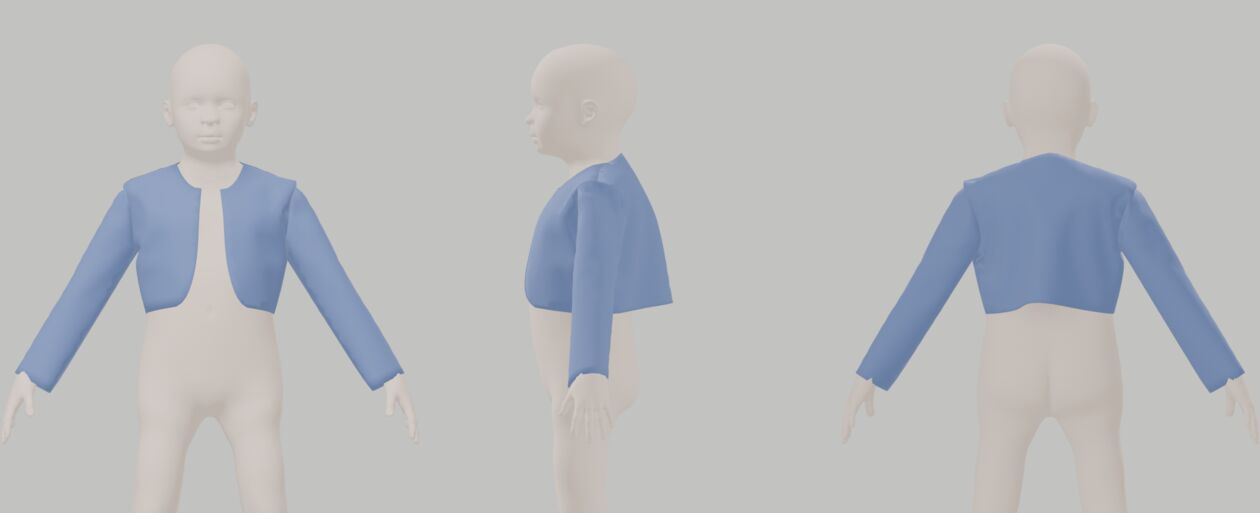
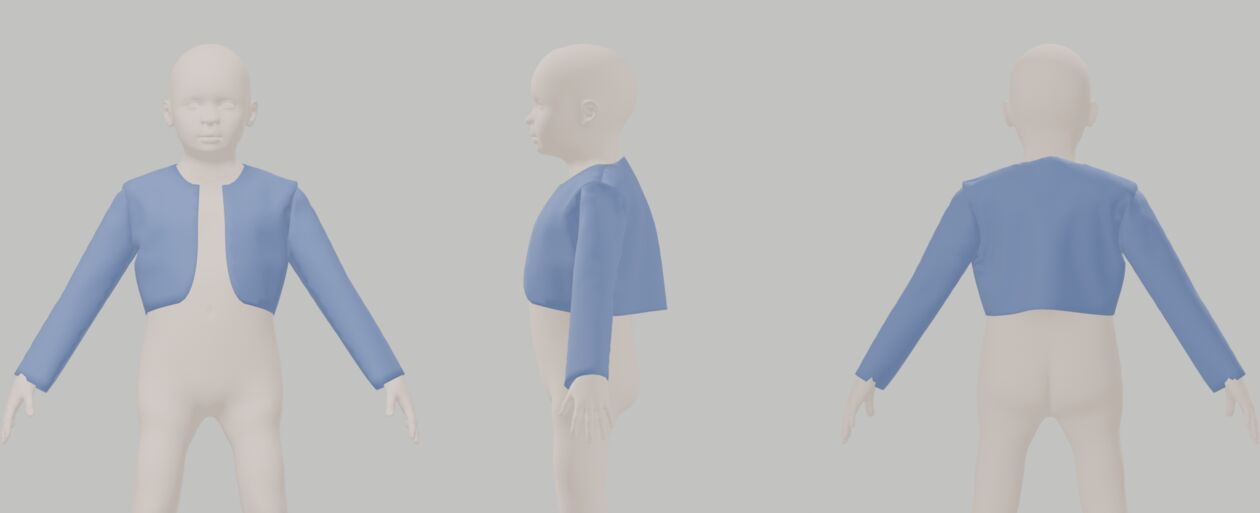
perf(drape): no friction lag round while sewing (DrapeOptions::lag_rounds = [0, 1]); bolero 29 s, trousers 2.4 min
The lag round re-solves each step with the step-end normal forces so contacts made mid-step get
friction at once. While sewing (no gravity, seams closing) it doubled the work for little: bolero
448 -> 312 Newton iterations, trousers 680 -> 318, the same verdicts (no flag, settled) and readings
within a few mm (bands within 3.7 mm, hem rise within 6 mm, hem balance -2.2 -> 6.0 mm, seam strain
p90 within 1 %), about the run-to-run spread the reference shows. Draping keeps one lag round.

diff --git a/crates/ftx-drape/src/run.rs b/crates/ftx-drape/src/run.rs
@@ -48,6 +48,9 @@ pub struct DrapeOptions {
     /// Compression stiffness as a fraction of tension, outside gather zones (inside them it falls to
     /// [`crate::start::GATHER_COMPRESSION`] at the gathered seam).
     pub compression: f64,
+    /// Friction lag rounds per step (re-solves with the normal forces and contacts of the step's end)
+    /// while sewing and while draping.
+    pub lag_rounds: [usize; 2],
     /// Contact and friction.
     pub contact: ContactParams,
 }
@@ -55,7 +58,8 @@ pub struct DrapeOptions {
 impl Default for DrapeOptions {
     /// 12 mm mesh, 12 sewing and 36 draping steps of 1/24 s, Newton to 1e-4 m/s, compression as stiff
     /// as tension outside gather zones (the reference's `tension = compression = E_t·L`, spec 04 §5.3),
-    /// ĝ 1 mm, the cloth's mid-surface 1.5 mm off the body, μ 0.4.
+    /// friction lagged once a step while draping and not while sewing, ĝ 1 mm, the cloth's mid-surface
+    /// 1.5 mm off the body, μ 0.4.
     fn default() -> Self {
         Self {
             spacing: 12.0,
@@ -64,6 +68,7 @@ impl Default for DrapeOptions {
             step: 1.0 / 24.0,
             tol: 1e-4,
             compression: 1.0,
+            lag_rounds: [0, 1],
             contact: ContactParams {
                 dhat: 1e-3,
                 thickness: 1.5e-3,
@@ -168,10 +173,11 @@ pub fn drape(
     let mut frames = fold_frames(&scene.mesh, &scene.placements, &board, FOLD_FRAMES);
     frames.extend(zip_frames(&scene.start.wrapped, &scene.start.relaxed));
     let mut phases = Vec::new();
-    for (name, steps, g) in [
-        ("sew", opts.sew_steps, 0.0),
-        ("drape", opts.drape_steps, 9.81),
+    for (name, steps, g, lag) in [
+        ("sew", opts.sew_steps, 0.0, opts.lag_rounds[0]),
+        ("drape", opts.drape_steps, 9.81, opts.lag_rounds[1]),
     ] {
+        scene.solver.friction_rounds = lag;
         let rep = run_phase(&mut scene, steps, opts.step, g, |_, x| {
             frames.push(x.to_vec());
         })?;

diff --git a/README.md b/README.md
@@ -41,7 +41,7 @@ fixtures). Drafting, alteration, exports, tracing, the round and the browser bui
 | Is there a Cargo workspace with code? | **Partly**: `ftx-core`, `ftx-body`, `ftx-pattern`, `ftx-drape`, `ftx-cli` and `ftx-conformance` (tests pass natively and, where run, as wasm under Node); `ftx-measure`, `ftx-export`, `ftx-trace` and `ftx-wasm` are planned |
 | Can I run it? | **Yes, three commands**: `ftx validate PATTERN --measurements M --fit F` (the reference's validation table and exit codes), `ftx drape PATTERN --measurements M --fit F --out DIR` (an Anny body of the wearer's age and sex fitted to their measurements, the drape, the fit flags, and a self-contained 3D fold-up page) and `ftx body --measurements M --out DIR [--pose seated]` (that body alone as OBJ and JSON). All take `--json`; the fabric-pattern skill runs its fold-ups through `ftx drape` when `ftx` is installed |
 | Does the body model work? | **Yes, in Rust**: the Anny forward model matches the Python package on 16 reference bodies (newborn to adult, extremes, local changes, two poses) to 1e-14 m, about 0.3–0.4 ms per body against 7 ms upstream. The drape poses (A-pose 35°/50°, arms up, seated, squat, with a ramp from rest and an optional nappy) match the package to 1e-15 m, and the skin comes out as a checked, closed, outward-wound mesh for contact. It is fitted to a wearer's age, sex, height and weight (or BMI), and to fifteen of their tape measurements (stature; chest, waist, hip, thigh, knee, calf, ankle, upper-arm and wrist girths; waist, crotch and knee heights; arm length; back neck to waist), read the way a tape reads them (convex hulls of body sections, limbs across their own axes), by Levenberg–Marquardt in about two seconds, with priors that let Anny's scanned shape space explain the body before its hand-made blend shapes adjust it; measurements drawn from the model itself are recovered within 0.43 mm. A body fitted to stature alone was 62–75 mm too small round the chest, waist and hip of the 92 cm reference toddler |
-| Does the drape solver exist? | **Yes, and it drapes a drafted garment on a realistic body**: orthotropic membrane, hinge bending and Newton on a sparse LDLᵀ pass their known-answer tests (anisotropy; a Peirce cantilever within 1.5 % of the exact elastica). Barrier contact on the thickness-offset gap with Coulomb friction passes its own: a ring on a cylinder holds below 2πμT and slides above it, a ring on a cone slides iff tan α > μ, and tight and loose tubes settle at the predicted strain and clearance. Results are bit-identical native and in wasm. The garment mesh and start state match the reference (all 42,003 triangles; pre-sew and relaxation to 1e-12 m), and the drafted bolero and trousers sew and drape on an Anny toddler fitted to the wearer's tape (about 1 and 5–6 minutes on a laptop; pictures below) with no fit flag. Compression is as stiff as tension except in gather zones, as in the reference. The metrics and flags match the reference's to the bit on recorded drapes, and the fold-up animation plays in a self-contained page. Self-contact and more speed are next, and the reference still judges fit in Blender |
+| Does the drape solver exist? | **Yes, and it drapes a drafted garment on a realistic body**: orthotropic membrane, hinge bending and Newton on a sparse LDLᵀ pass their known-answer tests (anisotropy; a Peirce cantilever within 1.5 % of the exact elastica). Barrier contact on the thickness-offset gap with Coulomb friction passes its own: a ring on a cylinder holds below 2πμT and slides above it, a ring on a cone slides iff tan α > μ, and tight and loose tubes settle at the predicted strain and clearance. Results are bit-identical native and in wasm. The garment mesh and start state match the reference (all 42,003 triangles; pre-sew and relaxation to 1e-12 m), and the drafted bolero and trousers sew and drape on an Anny toddler fitted to the wearer's tape (about 30 seconds and 2.5 minutes on a laptop; pictures below) with no fit flag. Compression is as stiff as tension except in gather zones, as in the reference. The metrics and flags match the reference's to the bit on recorded drapes, and the fold-up animation plays in a self-contained page. Self-contact and more speed are next, and the reference still judges fit in Blender |
 | Has anything been benchmarked? | **No**. Every number in the plan is a target or a measurement of the reference |
 
 The plan is written to be falsifiable: it names kill gates that can stop the body port or the drape solver
@@ -114,7 +114,7 @@ reference wearer's age fitted to fifteen of the wearer's tape measurements (2.5 
 drape pose with straightened arms): seams welded, barrier contact with Coulomb
 friction, 12 sewing and 36 draping steps of 1/24 s (`cargo run --release -p ftx-drape --example
 drape_drafted -- OUT zouave_trousers-920`). Neither raises a fit flag; the trousers' waistband and cuffs
-end within 6 mm of where they were drafted to sit. On a body fitted to stature alone (62–75 mm smaller
+end within 7 mm of where they were drafted to sit. On a body fitted to stature alone (62–75 mm smaller
 round the chest, waist and hip) the same trousers slid 63 mm down. The body is synthetic; no real child is
 measured or shown in this repository.*
 

diff --git a/FEATURE_PARITY.md b/FEATURE_PARITY.md
@@ -67,7 +67,7 @@ from the reference by `tools/oracle/capture_pattern_geometry.py`; 98.8 % of 15,8
 |---|---|---|---|
 | Garment mesh (spacing, seam pairs, instance ranges) | 04 §2 | present | drape/garment_mesh (7 garments: bolero and trousers at 80/92/116 cm, bolero at 8 mm; structure exact, vertices 99.0 % bit-exact, worst 3.8e-15; all 42,003 triangles identical to Blender's CDT) |
 | Placement and start shape (wrap, pre-sew) | 04 §3–4 | partial | drape/start_state (92 cm bolero and trousers): wrap with the reference's recorded frames, gather weights, sewing groups exact; pre-sew and relaxation to 1e-12 m against the reference's code with exact geometry; Blender's float32 BVH differs at crease ties (documented). On Anny: placements from `BodyFrames`, start untangling and the offset ramp (`scene.rs`). Missing: the reference's dress-form frames (not ported), inferred placement (§3.5), roll (§3.6) |
-| Dynamics contract | 04 §5 | partial | implicit Euler on the incremental potential with body contact (IPC barrier on the ξ-offset gap, additive CCD, lagged Coulomb friction, start-intersection audit; `ftx-drape` CONTRACT); welded seams, grain-aligned rest, fabric from the pattern, sew and drape phases (`scene.rs`, `examples/drape_drafted.rs`); compression as stiff as tension with gather zones softening it per element to 3 % (spec 04 §5.3–5.4, `ClothModel::set_compression`); settledness and frames in the metrics; elastic grip not simulated (nor in the reference: casings at `sim_scale`); no self-contact; a toddler fitted to 15 tape measurements takes about 50 s for the bolero and 5.4 min for the trousers |
+| Dynamics contract | 04 §5 | partial | implicit Euler on the incremental potential with body contact (IPC barrier on the ξ-offset gap, additive CCD, lagged Coulomb friction, start-intersection audit; `ftx-drape` CONTRACT); welded seams, grain-aligned rest, fabric from the pattern, sew and drape phases (`scene.rs`, `examples/drape_drafted.rs`); compression as stiff as tension with gather zones softening it per element to 3 % (spec 04 §5.3–5.4, `ClothModel::set_compression`); settledness and frames in the metrics; elastic grip not simulated (nor in the reference: casings at `sim_scale`); no self-contact; a toddler fitted to 15 tape measurements takes about 30 s for the bolero and 2.5 min for the trousers (no friction lag round while sewing) |
 | Metrics and flags with the reference's text and gating split | 04 §6 | present | drape/metrics (the reference's `metrics()` on four synthetic sequences over the exact start states of the 92 cm bolero and trousers: settled, slipping with open seams and penetration, stretched rings, trousers with sliding cuffs; 443 numbers bit-exact, all 51 flag texts identical) in `crates/ftx-conformance/tests/metrics.rs`; `sim_report.json` from `examples/drape_drafted.rs` lacks the run metadata fields (§6.11) |
 | Qualification bands and tightness gating | 04 §7 | missing | |
 | Known-answer tests (plan §11.9) | 04 §8 | partial | KAT 2 (anisotropy, compression law), KAT 3 (Peirce cantilever vs exact elastica), KAT 9 (drape digest equal native/wasm) in `crates/ftx-drape/tests/kat.rs`; KAT 1 (barrier calculus vs AD and differences, unit test), KAT 4 (ring on a cylinder, 2πμT), KAT 5 (ring on a cone, tan α vs μ), KAT 6 (ease sweep), KAT 9 (contact digest equal native/wasm) in `tests/kat_contact.rs`; KAT 7 (elastic ladder), 8 (armpit wedge) and 10 (two-start spread) need elastics, seams, the garment scene and fitted bodies (FTX-09, FTX-13) |

diff --git a/crates/ftx-drape/CONTRACT.md b/crates/ftx-drape/CONTRACT.md
@@ -66,7 +66,12 @@ iterations): skipping the projection of element Hessians that are PSD by constru
 and deferring the factorization's panel updates (→ 45–50 s); assembly now fills the fixed pattern in
 place (bit-identical, no triplet sort). With compression at the reference's stiffness (above) the whole
 bolero drape takes about 70 s and the trousers about 7.5 minutes; on the body fitted to 15 tape
-measurements (ftx-body), 50 s and 5.4 minutes.
+measurements (ftx-body), 50 s and 5.4 minutes; without the friction lag round while sewing
+(`DrapeOptions::lag_rounds` = [0, 1], the default) 29 s and 2.4 minutes: the bolero 312 Newton
+iterations instead of 448, the trousers 318 instead of 680, the same verdicts (no flag, settled),
+readings within a few millimetres (bands within 3.7 mm, hem rise within 6 mm, hem balance −2.2 → 6.0 mm,
+seam strain p90 within 1 %) — the run-to-run spread the reference itself shows. Contacts made during a
+sewing step get friction from the next step on.
 
 **Units and frames.** Metres, kilograms, seconds; z up. Rest coordinates are the flat piece in its material
 frame (+u along the grain).
